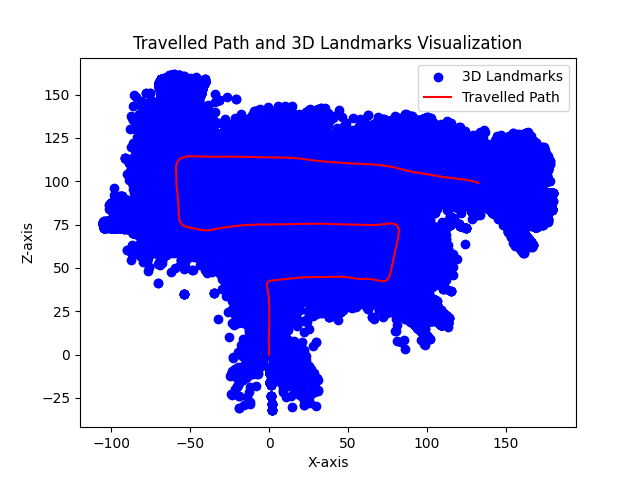
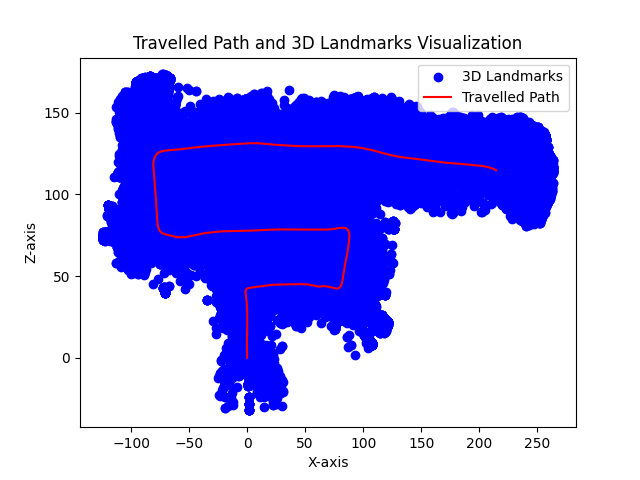
visualization completed

diff --git a/src/visual.py b/src/visual.py
@@ -72,15 +72,19 @@ class Visual():
         # ax.plot(list(range(len(self._landmark_history))), self._landmark_history)
 
 
-        ax = self._fig.add_subplot(245)
+        ax = self._fig.add_subplot(122)
         traj_len = len(self._position_history)
         traj = np.vstack(self._position_history)
         plt.title("Local Trajectory")
         ax.scatter(traj[max([0, traj_len-20]):, 0], traj[max([0, traj_len-20]):, 2], s=20, c='blue', facecolor=None)
-        ax.set_xlim(np.min(traj[max([0, traj_len-20]):,0]), np.max(traj[max([0, traj_len-20]):,0]))
-        ax.set_ylim(np.min(traj[max([0, traj_len-20]):,2]), np.max(traj[max([0, traj_len-20]):,2]))
+        ax.set_xlim(1.5*np.min(traj[max([0, traj_len-20]):,0]), 1.5 * np.max(traj[max([0, traj_len-20]):,0]))
+        ax.set_ylim(1.5 * np.min(traj[max([0, traj_len-20]):,2]), 1.5 * np.max(traj[max([0, traj_len-20]):,2]))
         ax.set_aspect("equal")
         ax.set_adjustable("datalim")
+        # Draw landmarks in map
+        landmarks= np.array(self._landmarks[0])
+        filter = np.linalg.norm(landmarks, axis = 1) < 30
+        ax.scatter(landmarks[filter, 0], landmarks[filter, 2], s=20, c='green', facecolor=None, alpha=0.2)
 
         ax = self._fig.add_subplot(246)
         plt.title("Number_of_keypoints")
@@ -92,7 +96,7 @@ class Visual():
         ax.set_adjustable("datalim")
 
         # Draw trajectory
-        ax = self._fig.add_subplot(122)
+        ax = self._fig.add_subplot(245)
         plt.title("Global Trajectory")
         for axis in self._position_history:
             # print("axis ", axis)
@@ -101,12 +105,9 @@ class Visual():
         ax.set_adjustable("datalim")
         xlims = ax.get_xlim()
         ylims = ax.get_ylim()
-
-        # Draw landmarks in map
-        landmarks= np.array(self._landmarks[0])
-        ax.scatter(landmarks[:, 0], landmarks[:, 2], s=2, c='green', facecolor=None, alpha=0.05)
         ax.set_xlim(xlims)
         ax.set_ylim(ylims)
+
 
         self._fig.canvas.draw()
         im_vis = np.fromstring(self._fig.canvas.tostring_rgb(), dtype=np.uint8, sep='')

diff --git a/src/main.py b/src/main.py
@@ -9,6 +9,7 @@ from visual import Visual
 
 debug = config['debug']
 visualize = config['visualization']
+visualize = False
 
 # Setup
 if config['dataset'] == 'kitti':
@@ -174,8 +175,9 @@ extended_state['T'] = np.array([])
 sift = cv2.SIFT.create()
 _, old_des = sift.detectAndCompute(img1, None) # this should come from the initialization and we should start from img2
 
-visualization = False
-visual = Visual(K)
+visualization = True
+if visualization:
+    visual = Visual(K)
 #instantiate BestVision:
 vision = BestVision(K) 
 vision.state = state
@@ -266,8 +268,9 @@ for img_idx in range(bootstrap_frames[1],final_frame): #was 3, 700
     else:
         new_state, extended_state, cur_des = landmark_triangulator.triangulate_landmark(img1, img2, new_state, extended_state, new_pose)
     
-    visual.update(img2,new_state, new_pose)
-    visual.render()
+    if visualization:
+        visual.update(img2,new_state, new_pose)
+        visual.render()
     
     # update the state
     vision.state = new_state
